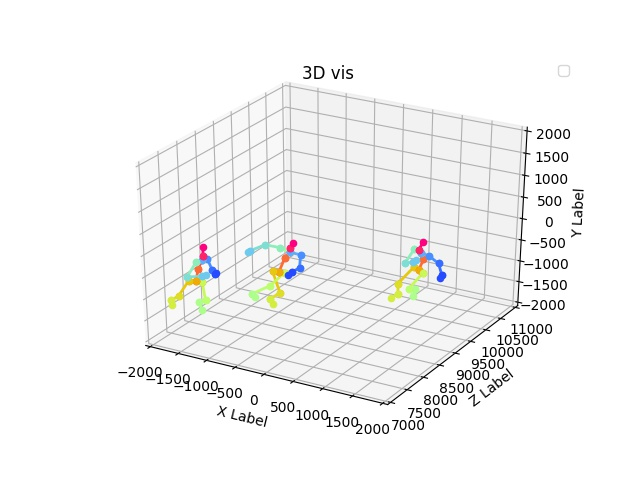
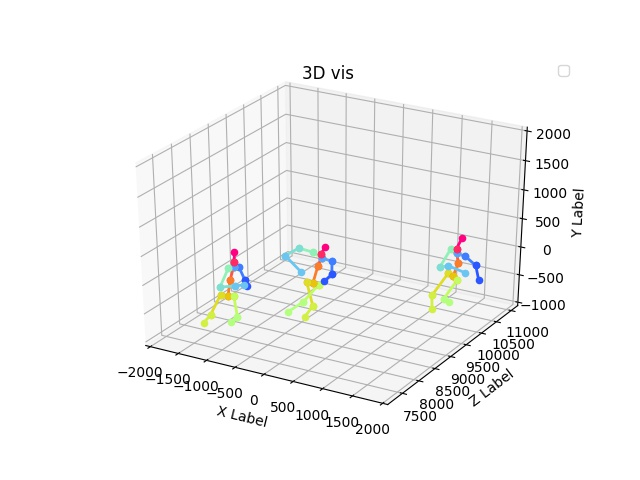
debug

diff --git a/config.py b/config.py
@@ -50,7 +50,7 @@ class Config:
                 (6, 7),
                 # (7, 18)
                 )
-    flip_test = True
+    flip_test = False
     flip_pairs = ((2, 5), (3, 6), (4, 7), (8, 11), (9, 12), (10, 13))
     rootnet_model_inx = 18
     posenet_model_inx = 24
